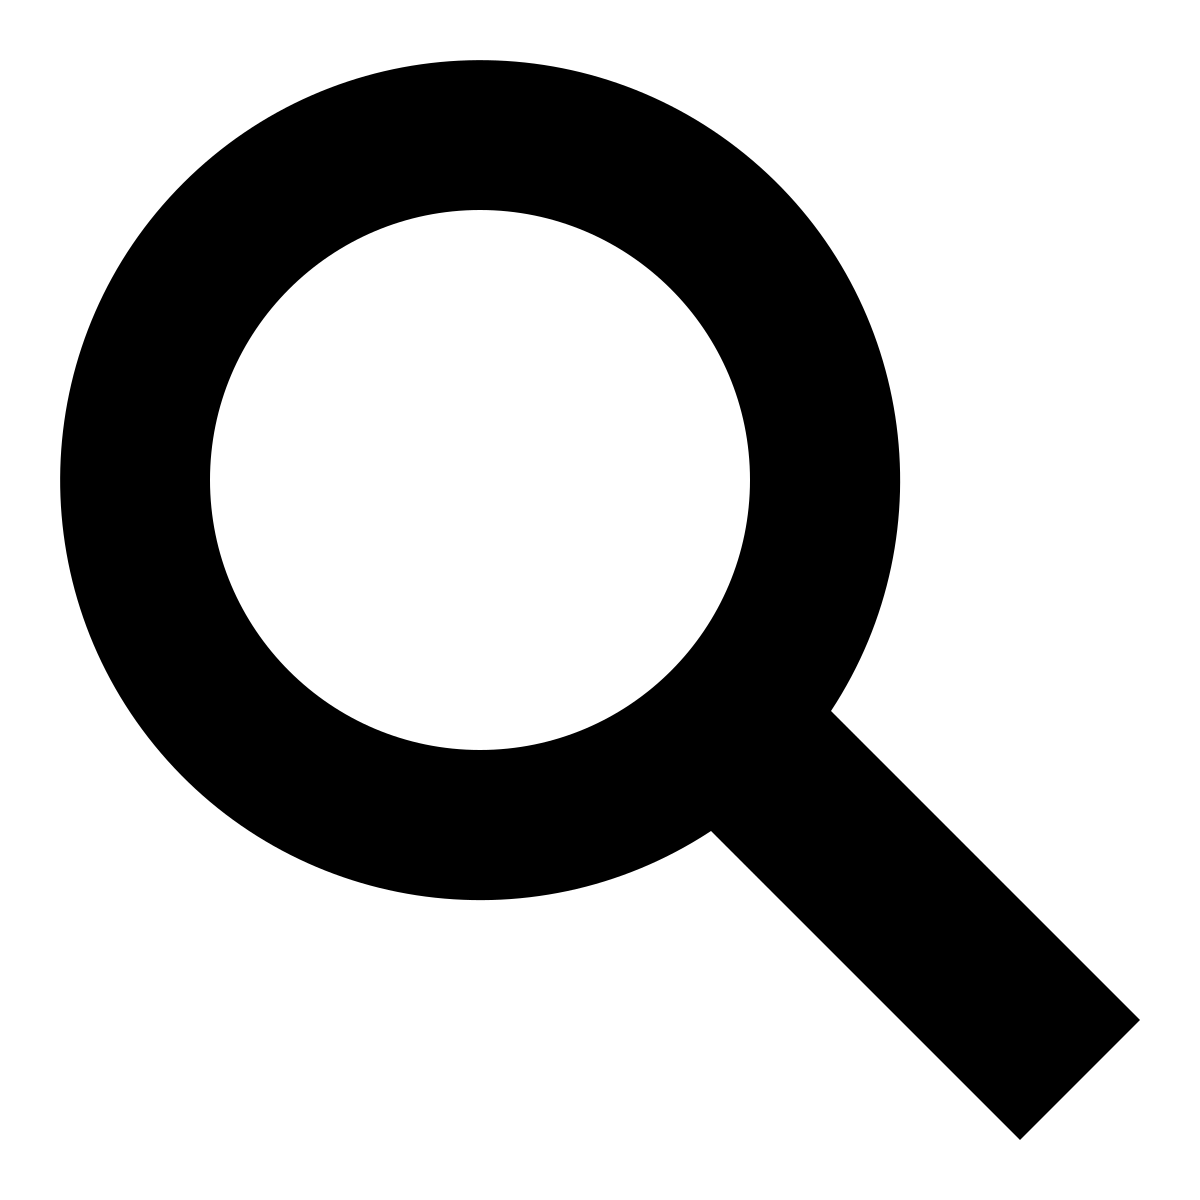
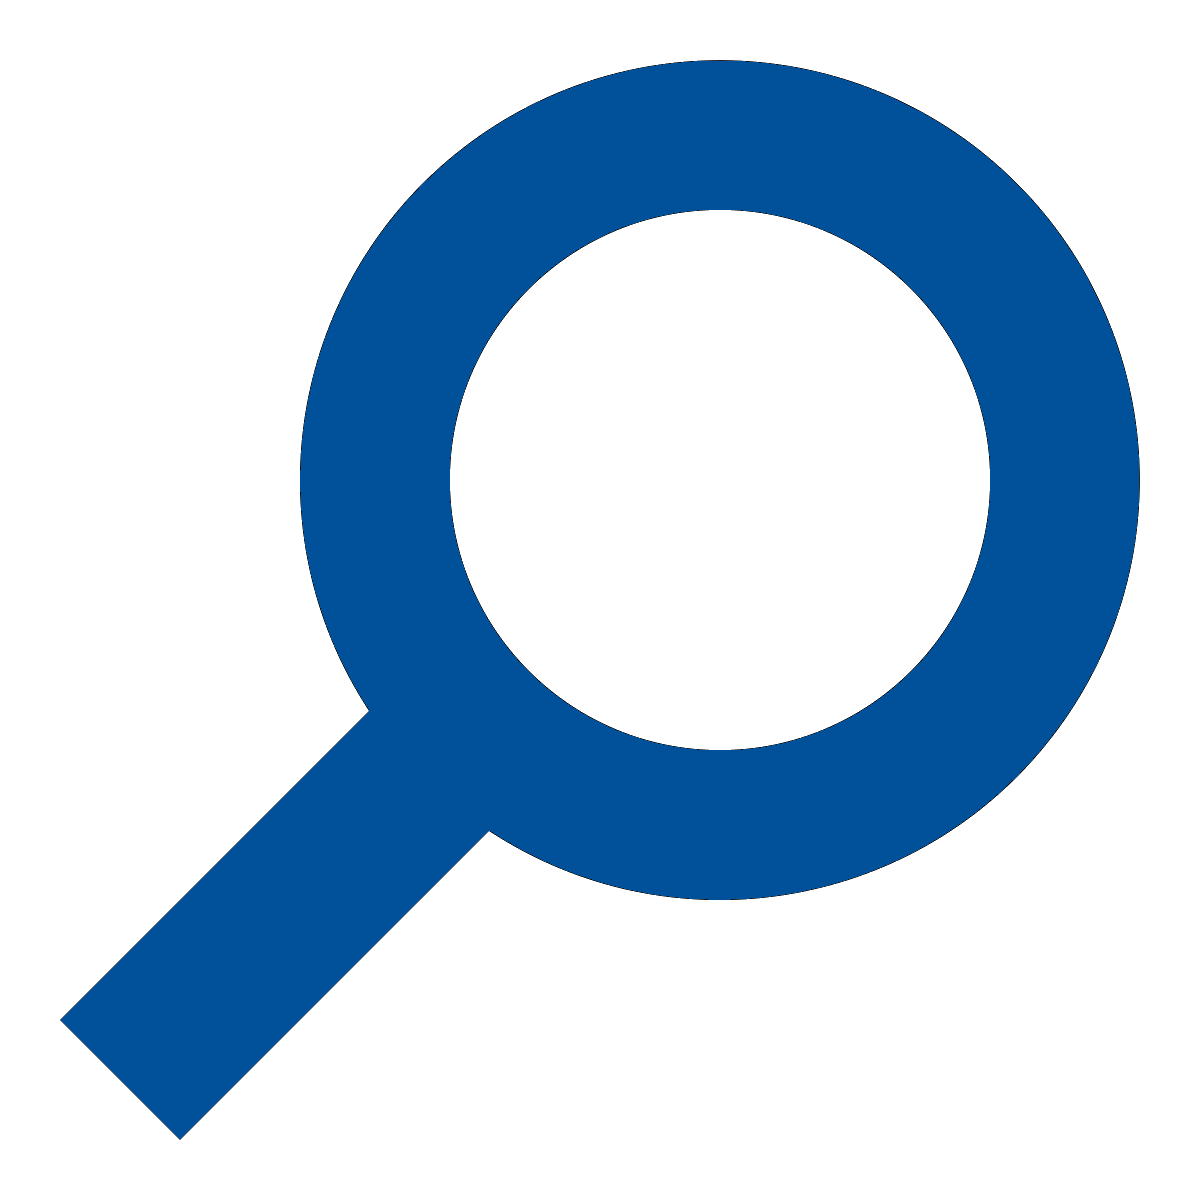
Small changes
- Color
- Search icon
- Imprint

diff --git a/impressum.html b/impressum.html
@@ -24,20 +24,26 @@
                 <h1 class="title">Impressum</h1>
                 <br><br>
                 <p><strong><i>Kontakt-Adresse</i></strong></p>
-                <p>Sandro Lenz<br>Ausstellungsstrasse 70<br>8005 Zürich<br>Schweiz</p>
+                <p>Matteo Stählin<br>Ausstellungsstrasse 70<br>8005 Zürich<br>Schweiz</p>
                 <br>
-                <p>E-Mail:<br>sandro.lenz@edu.tbz.ch</p>
+                <p>E-Mail:<br>matteo.staehlin@edu.tbz.ch</p>
                 <br><br>
                 <p><strong><i>Haftungsausschluss</i></strong>
                 </p>Der Autor übernimmt keinerlei Gewähr hinsichtlich der inhaltlichen Richtigkeit, Genauigkeit, Aktualität, Zuverlässigkeit und Vollständigkeit der Informationen.</p>
-                <p>Haftungsansprüche gegen den Autor wegen Schäden materieller oder immaterieller Art, welche aus dem Zugriff oder der Nutzung bzw. Nichtnutzung der veröffentlichten Informationen, durch Missbrauch der Verbindung oder durch technische Störungen entstanden sind, werden ausgeschlossen.</p>
-                <p>Alle Angebote sind unverbindlich. Der Autor behält es sich ausdrücklich vor, Teile der Seiten oder das gesamte Angebot ohne besondere Ankündigung zu verändern, zu ergänzen, zu löschen oder die Veröffentlichung zeitweise oder endgültig einzustellen.</p>
+                <p>Haftungsansprüche gegen den Autor wegen Schäden materieller oder immaterieller Art, welche aus dem Zugriff oder der Nutzung bzw. Nichtnutzung der veröffentlichten Informationen, durch Missbrauch der Verbindung oder durch technische Störungen
+                    entstanden sind, werden ausgeschlossen.</p>
+                <p>Alle Angebote sind unverbindlich. Der Autor behält es sich ausdrücklich vor, Teile der Seiten oder das gesamte Angebot ohne besondere Ankündigung zu verändern, zu ergänzen, zu löschen oder die Veröffentlichung zeitweise oder endgültig
+                    einzustellen.
+                </p>
                 <br><br>
                 <p><strong><i>Haftungsausschluss für Links</i></strong></p>
-                <p>Verweise und Links auf Webseiten Dritter liegen ausserhalb unseres Verantwortungsbereichs. Es wird jegliche Verantwortung für solche Webseiten abgelehnt. Der Zugriff und die Nutzung solcher Webseiten erfolgen auf eigene Gefahr des jeweiligen Nutzers.</p>
+                <p>Verweise und Links auf Webseiten Dritter liegen ausserhalb unseres Verantwortungsbereichs. Es wird jegliche Verantwortung für solche Webseiten abgelehnt. Der Zugriff und die Nutzung solcher Webseiten erfolgen auf eigene Gefahr des jeweiligen
+                    Nutzers.
+                </p>
                 <br><br>
                 <p><strong><i>Urheberrechte</i></strong></p>
-                <p>Die Urheber- und alle anderen Rechte an Inhalten, Bildern, Fotos oder anderen Dateien auf dieser Website, gehören ausschliesslich <strong>Sandro Lenz</strong> oder den speziell genannten Rechteinhabern. Für die Reproduktion jeglicher Elemente ist die schriftliche Zustimmung des Urheberrechtsträgers im Voraus einzuholen.</p>
+                <p>Die Urheber- und alle anderen Rechte an Inhalten, Bildern, Fotos oder anderen Dateien auf dieser Website, gehören ausschliesslich <strong>Sandro Lenz</strong> oder den speziell genannten Rechteinhabern. Für die Reproduktion jeglicher Elemente
+                    ist die schriftliche Zustimmung des Urheberrechtsträgers im Voraus einzuholen.</p>
                 <br>
                 <!--ACHTUNG: Wenn Sie die Quelle ohne Erlaubnis von SwissAnwalt entfernen, dann begehen Sie eine Urheberrechtsverletzung welche in jedem Fall geahndet wird.-->
                 <!--Bitte beachten Sie die AGB von SwissAnwalt betreffend allfällig anfallenden Kosten bei Weglassen der Quelle!-->

diff --git a/style.css b/style.css
@@ -28,7 +28,7 @@
     width: 80px;
 }
 
-.div_result{
+.div_result {
     display: flex;
     align-items: center;
     flex-direction: column;
@@ -45,7 +45,8 @@
     width: 50%;
 }
 
-#txt_name, .title {
+#txt_name,
+.title {
     align-self: center;
 }
 
@@ -68,36 +69,34 @@ footer {
     bottom: 0;
     width: 100%;
     height: 2.5rem;
-
     display: flex;
     justify-content: space-between;
     color: whitesmoke;
-    background-color: slategrey;
+    background-color: #00509A;
     height: 50px;
     width: 100%;
 }
 
 #div_footer p {
-    background-color: slategrey;
+    background-color: #00509A;
     margin: 15px;
 }
 
 .footer_link {
     color: whitesmoke;
-    background-color: slategrey;
+    background-color: #00509A;
     text-decoration: none;
-    
 }
 
 .footer_link:hover {
-    color: darkslategray;
+    color: slategray;
 }
 
 #page {
     position: relative;
     min-height: 100vh;
 }
-  
+
 #content-wrap {
     padding-bottom: 2.5rem;
 }

diff --git a/index.php b/index.php
@@ -23,8 +23,8 @@
             <br><br><br>
             <div class="div_result">
                 <h1 id="txt_name">Vorname Nachname</h1><br>
-                <img id="img_person" src="./img/avatar_placeholder.jpg"> <!-- https://thispersondoesnotexist.com/image -->
-                <br><a id="separator">–––––––––/–––––––––</a>
+                <!-- <img id="img_person" src="./img/avatar_placeholder.jpg">  https://thispersondoesnotexist.com/image -->
+                <br><a id="separator">–––––––––/–––––––––</a><br>
                 <p id="txt_email">E-Mail</p>
                 <p id="txt_phone">Telefonnummer</p>
                 <p id="txt_postiton">Position</p>
